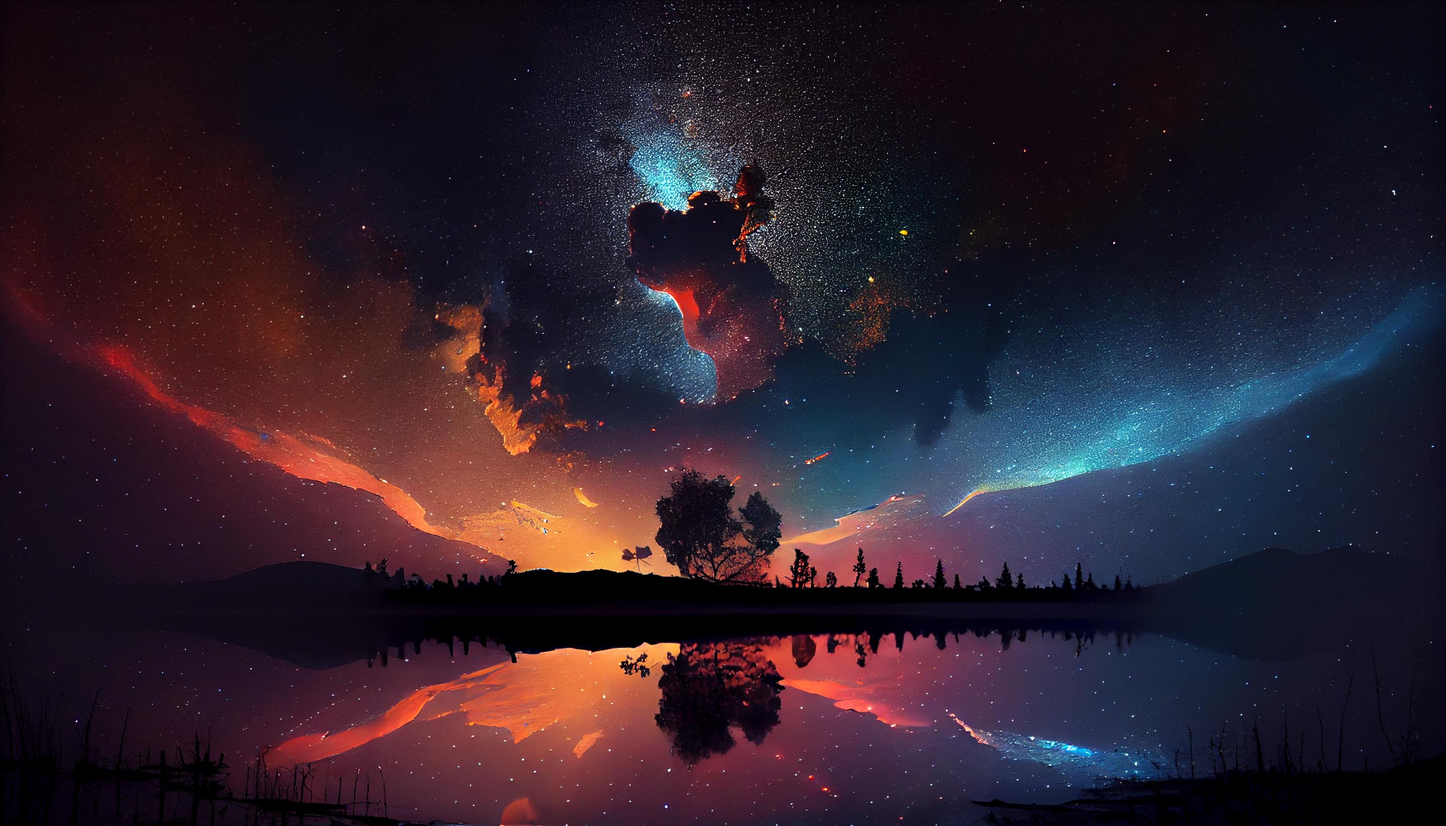
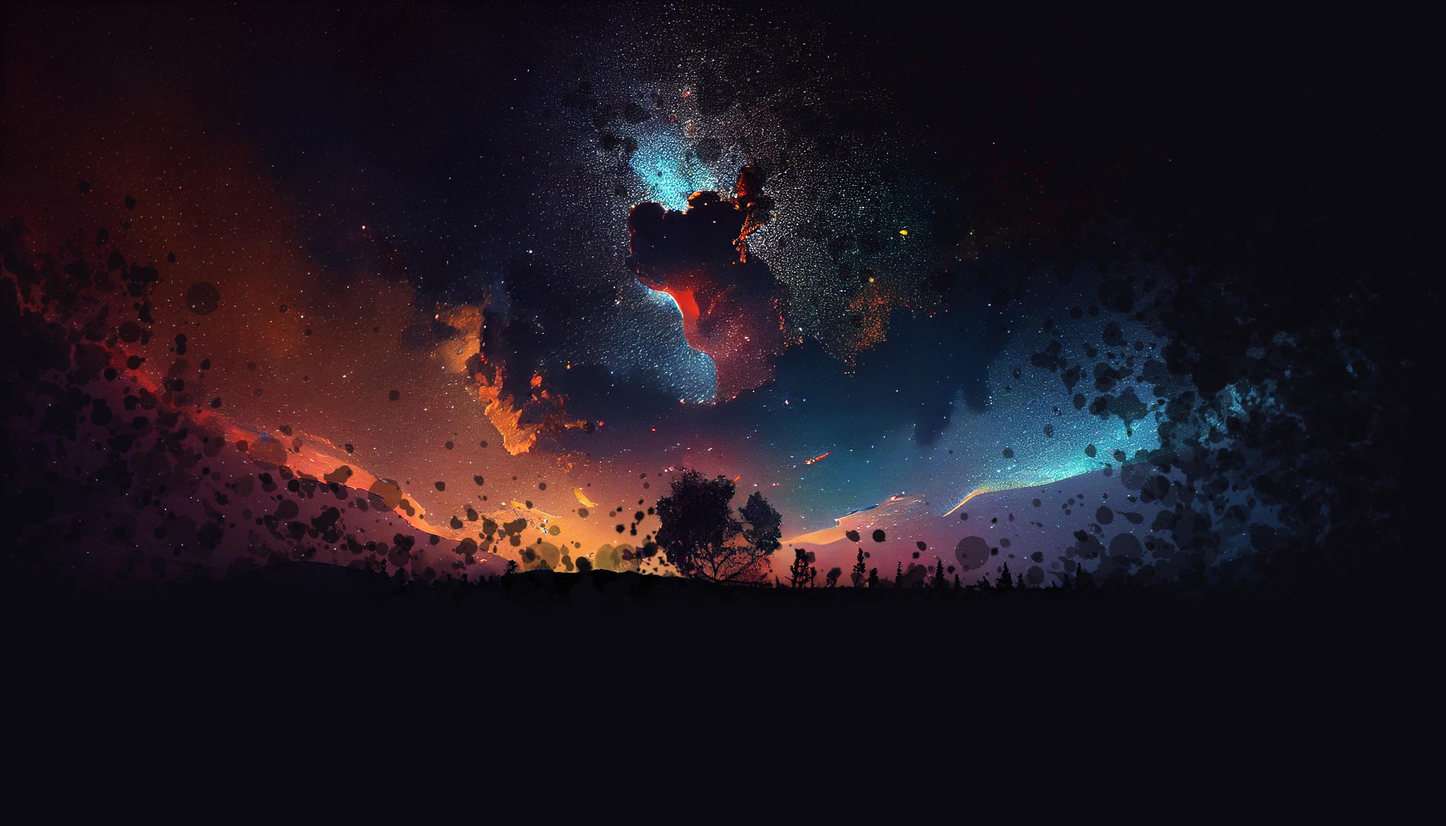
add: changes to background, and removed pagination

diff --git a/frontend/src/components/logs-list.tsx b/frontend/src/components/logs-list.tsx
@@ -8,22 +8,9 @@ interface Log {
 interface LogsListProps {
   logs: Log[];
   setLogs: React.Dispatch<React.SetStateAction<Log[]>>;
-  handlePrevPage: () => void;
-  handleNextPage: () => void;
-  currentPage: number;
-  perPage: number;
-  totalLogs: number;
-  setPage: React.Dispatch<React.SetStateAction<number>>;
 }
 
-const LogsList: React.FC<LogsListProps> = ({
-  logs,
-  setLogs,
-  currentPage,
-  perPage,
-  totalLogs,
-  setPage,
-}) => {
+const LogsList: React.FC<LogsListProps> = ({ logs, setLogs }) => {
   const [error, setError] = useState<string>("");
   const [loading, setLoading] = useState<boolean>(true);
 
@@ -65,24 +52,6 @@ const LogsList: React.FC<LogsListProps> = ({
     };
   }, []); // Only run this effect once on mount
 
-  const startIdx = (currentPage - 1) * perPage;
-  const endIdx = startIdx + perPage;
-
-  const logsToRender = logs.slice(startIdx, endIdx);
-
-  const handlePrevPage = () => {
-    setPage((prevPage) => prevPage - 1);
-  };
-
-  const handleNextPage = () => {
-    setPage((prevPage) => prevPage + 1);
-  };
-
-  console.log("end idx : ", endIdx);
-  console.log(logs);
-  console.log("logs length: ", logs.length);
-  console.log("start", startIdx);
-
   return (
     <div className="list">
       <h2>Live Logs</h2>
@@ -91,7 +60,7 @@ const LogsList: React.FC<LogsListProps> = ({
       ) : (
         <>
           <ul>
-            {logsToRender.map((log) => (
+            {logs.map((log) => (
               <li key={log._id}>
                 <pre>{log.processedLog}</pre>
               </li>
@@ -99,16 +68,6 @@ const LogsList: React.FC<LogsListProps> = ({
           </ul>
           {logs.length === 0 && <p>No logs found</p>}
           {error && <p>Error: {error}</p>}
-          {logs.length > perPage && (
-            <div className="listbtns">
-              <button disabled={currentPage === 1} onClick={handlePrevPage}>
-                Prev
-              </button>
-              <button disabled={endIdx >= logs.length} onClick={handleNextPage}>
-                Next
-              </button>
-            </div>
-          )}
         </>
       )}
     </div>

diff --git a/frontend/src/App.tsx b/frontend/src/App.tsx
@@ -9,39 +9,15 @@ interface Log {
 
 const App: React.FC = () => {
   const [logs, setLogs] = useState<Log[]>([]);
-  const [page, setPage] = useState<number>(1);
-  const [perPage] = useState<number>(5);
 
   const addLog = (newLog: Log) => {
     setLogs((prevLogs) => [...prevLogs, newLog]);
-    setPage(Math.ceil((logs.length + 1) / perPage));
-  };
-
-  const handlePrevPage = () => {
-    setPage((prevPage) => prevPage - 1);
-  };
-
-  const handleNextPage = () => {
-    setPage((prevPage) => {
-      const nextPage = prevPage + 1;
-      const lastPage = Math.ceil(logs.length / perPage);
-      return nextPage > lastPage ? prevPage : nextPage;
-    });
   };
 
   return (
     <>
       <Form addLog={addLog} />
-      <LogsList
-        logs={logs}
-        setLogs={setLogs}
-        handlePrevPage={handlePrevPage}
-        handleNextPage={handleNextPage}
-        currentPage={page}
-        perPage={perPage}
-        totalLogs={logs.length}
-        setPage={setPage}
-      />
+      <LogsList logs={logs} setLogs={setLogs} />
     </>
   );
 };

diff --git a/frontend/src/index.css b/frontend/src/index.css
@@ -8,7 +8,7 @@
   font-weight: 400;
   color-scheme: light dark;
   color: rgba(255, 255, 255, 0.87);
-  background-color: #242424;
+  background-color: #0b0a10;
   font-synthesis: none;
   text-rendering: optimizeLegibility;
   -webkit-font-smoothing: antialiased;
@@ -17,9 +17,9 @@
 }
 
 body {
+  background-color: #0b0a10;
   display: flex;
   justify-content: center;
-  align-items: center;
   height: 100vh;
   background-image: url(./components/assets/background-img.jpg);
   background-size: cover;
@@ -89,7 +89,7 @@ ul {
   display: flex;
   flex-direction: column;
   padding: 1rem;
-  background-color: rgba(0, 0, 0, 0.33);
+  background-color: rgba(0, 0, 0, 0.5);
   border-radius: 0.5rem;
   min-width: 350px; /* add a max-width */
   border: 1px solid rgba(0, 0, 0, 0.7);
